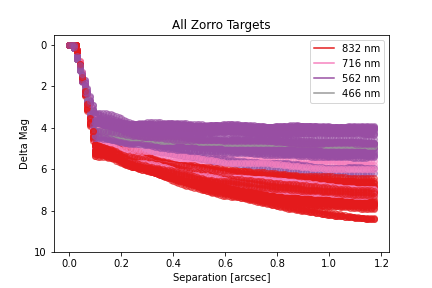
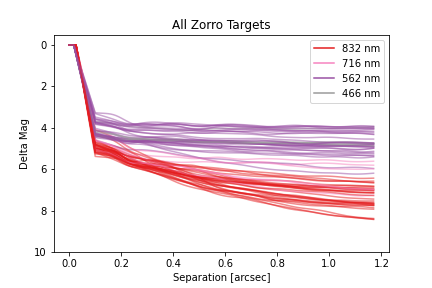
added binary detections to senitivity plot

Changed region(s): [[0.1505, 0.125, 0.8727, 0.7812]]

diff --git a/plotting_draft.py b/plotting_draft.py
@@ -67,4 +67,33 @@ if __name__== "__main__":
 
     star_names = at.read("all_zorro_targets.csv")
     all_star_plot(star_names['name'])
+
+binary_location = "Google Drive/Shared drives/DouglasGroup/data/Zorro_speckle_info/Douglas_Binaries_GS_all.txt"
+binary_location_expanded = os.path.join(os.path.expanduser(f"~/{binary_location}"))
+
+
+
+def binary_detections(all_names):
+    ssfont = {'fontname':'sans-serif'}
+    color_dict = {'purple 1': '#984ea3', 'red': '#e41a1c', 'grey': '#999999', 'pink': '#f781bf' }
+
     
+    #on same plot with the curves 
+    #for confirmed_pair in binary_location_expanded:
+    #for name in binary_location_expanded:
+    data = at.read(binary_location_expanded)
+#print(data)
+    ax = plt.subplot()
+    ax.plot(data['rho'][1:], data['delm'][1:], 'o', alpha = 1, color = color_dict['red'])
+    ax.set_xlabel("Separation [arcsec]")
+    ax.set_ylabel("Delta mag")
+    ax.set_ylim(10, -0.5)
+    ax.set_xlim(-0.04, 1.2)
+
+
+if __name__=="__main__":
+    
+    all_names = at.read(binary_location_expanded)
+    binary_detections(all_names['ID'])
+
+

diff --git a/MOLUSC_reformatting_curves.py b/MOLUSC_reformatting_curves.py
@@ -20,7 +20,6 @@ star_name = "IC2602b104422-6415"
 #multiply separation column by 1000 cuz milliarcseconds 
 
 
-        
 def one_star_table(star_name):
     location =  "Google Drive/Shared drives/DouglasGroup/data/Zorro_data_reformatted/"
     location_and_name = os.path.join(os.path.expanduser(f"~/{location}"), star_name)
@@ -35,7 +34,9 @@ def one_star_table(star_name):
             print(data_table)
             MOLUSC_fname = edited_fname.replace(".dat", "MOLUSC.dat")
             new_pathname = MOLUSC_fname.replace('Zorro_data_reformatted', 'Zorro_to_MOLUSC')
-            at.write(data_table, new_pathname, overwrite = True)
+            at.write(data_table, new_pathname, overwrite = True)        
+
+   
                 
 
 star_names = at.read("all_zorro_targets.csv")

diff --git a/new_binaries_plot.py b/new_binaries_plot.py
@@ -25,9 +25,8 @@ binary_location_expanded = os.path.join(os.path.expanduser(f"~/{binary_location}
 data = at.read(binary_location_expanded)
 #print(data)
 ax = plt.subplot()
-ax.plot(data['rho'], data['delm'], alpha = 0.5, color = color_dict['red'])
+ax.plot(data['rho'][1:], data['delm'][1:], 'o', alpha = 1, color = color_dict['red'])
 ax.set_xlabel("Separation [arcsec]")
 ax.set_ylabel("Delta mag")
 ax.set_ylim(10, -0.5)
 ax.set_xlim(0, 1.2)
- 

diff --git a/individual_plotting_draft.py b/individual_plotting_draft.py
@@ -45,4 +45,4 @@ def one_star(star_name):
     #ax.plot()  plot the individual point here !!!!
     ax.legend()    
 
-one_star("IC2391b084426-5242")
+one_star("IC2602b104256-6355")
